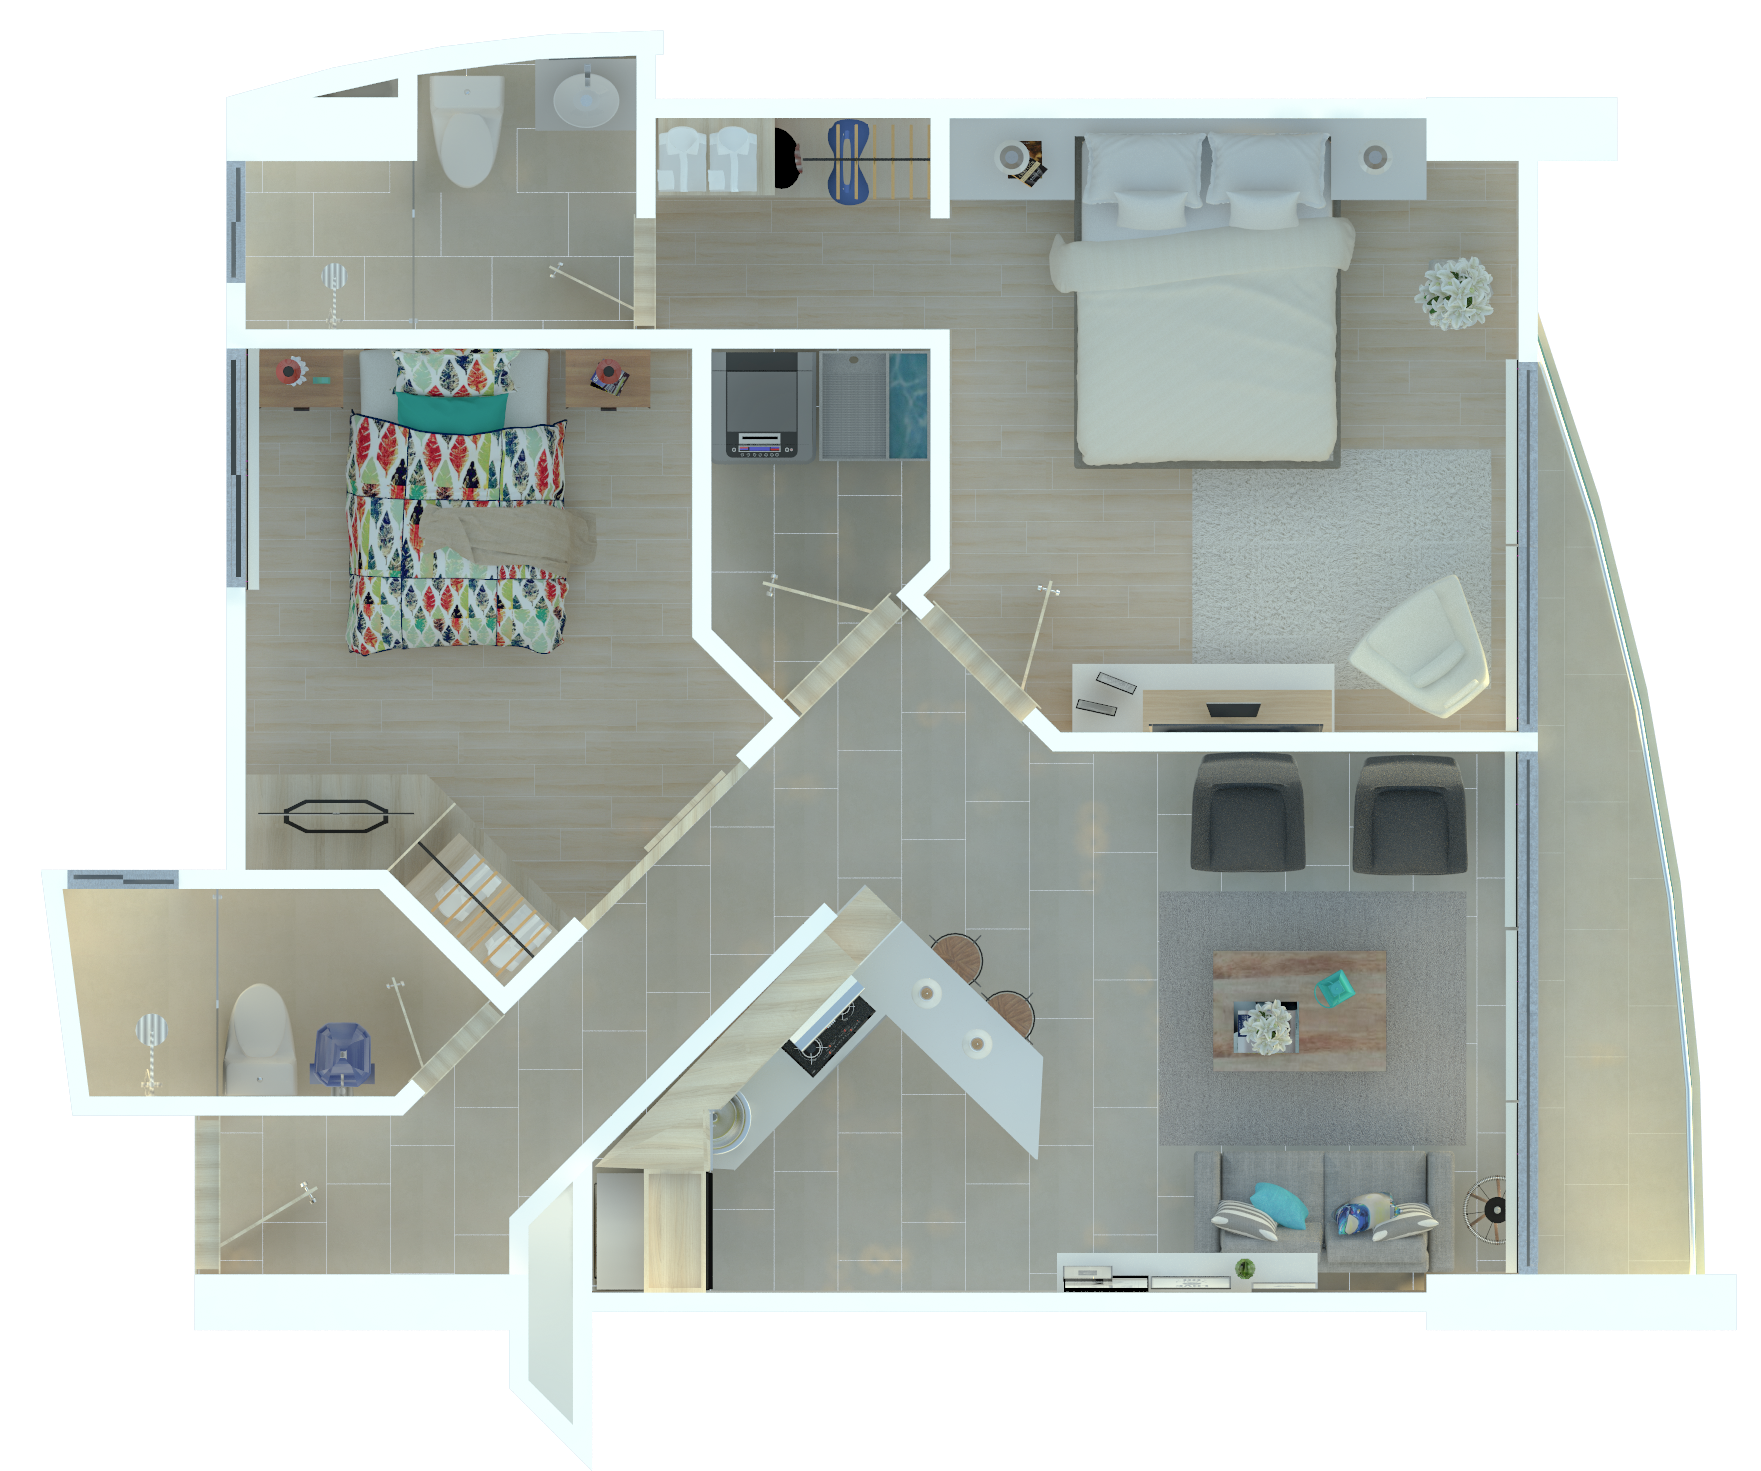
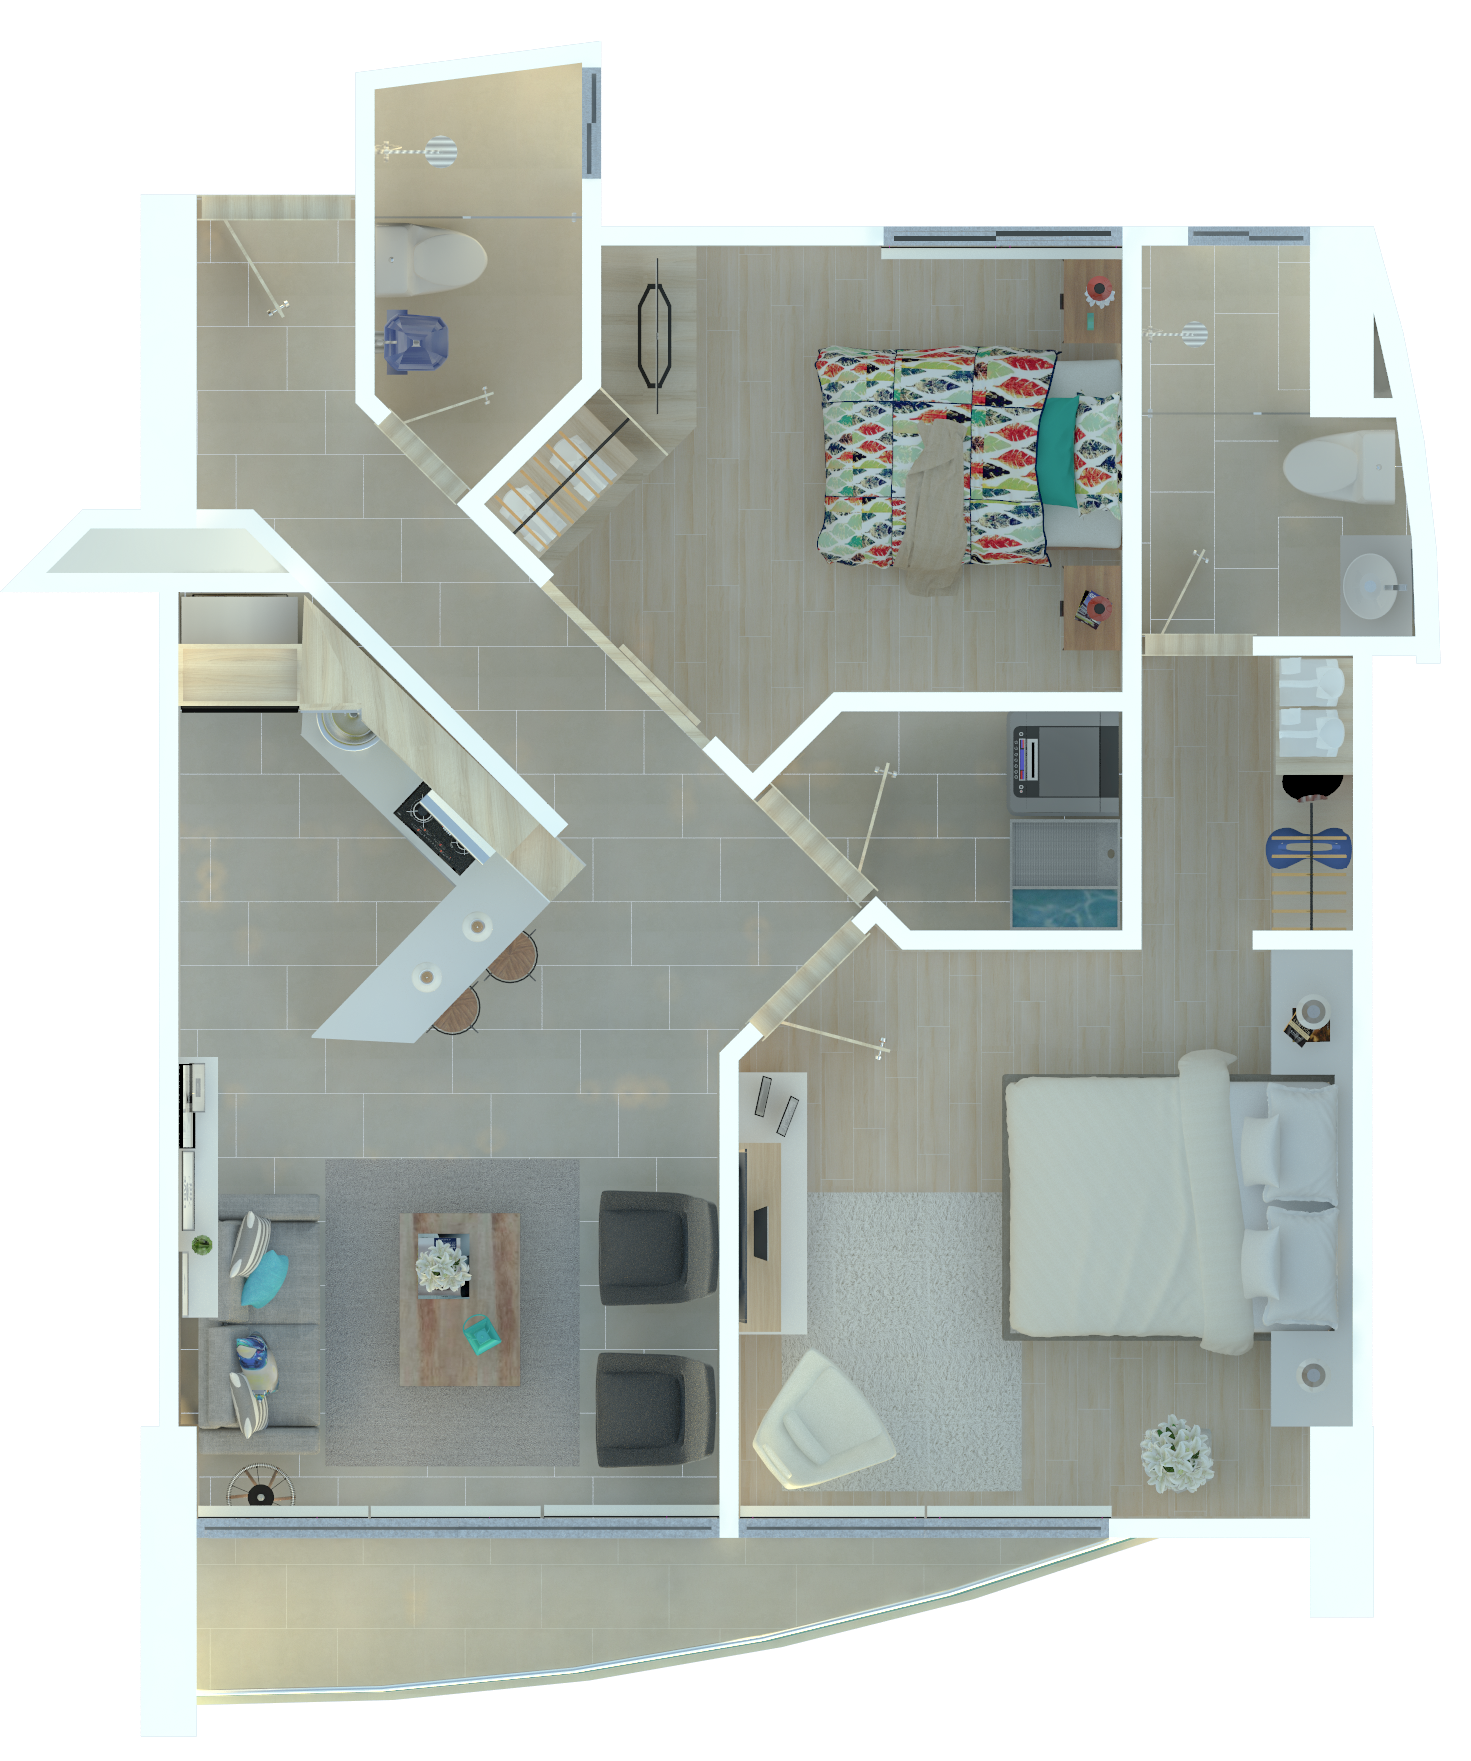
Blog home full of posts

diff --git a/belmonte.html b/belmonte.html
@@ -225,7 +225,9 @@
                                             <div class="col-md-6">
                                                 <img src="images/Belmonte/render-2alcobas-a.png" alt="" class="img-responsive">
                                             </div>
-                                            <div class="col-md-6"></div>
+                                            <div class="col-md-6">
+                                                <img src="images/Belmonte/plano-2alcobas-a.jpg" alt="" class="img-responsive">
+                                            </div>
                                         </div>
                                     </div>
                                     <div id="sub2" class="tab-pane fade">
@@ -233,7 +235,9 @@
                                             <div class="col-md-6">
                                                 <img src="images/Belmonte/render-2alcobas-b.png" alt="" class="img-responsive">
                                             </div>
-                                            <div class="col-md-6"></div>
+                                            <div class="col-md-6">
+                                                <img src="images/Belmonte/plano-2alcobas-b.jpg" alt="" class="img-responsive">
+                                            </div>
                                         </div>
                                     </div>
                                 </div>
@@ -242,20 +246,28 @@
                       </div>
 
                       <div id="tab3" class="tab-pane fade">
-                        <div class="row col-md-6">
-                            <img src="images/Belmonte/render-3alcobas.png" alt="" class="img-responsive">
+                        <div class="row">
+                            <div class="col-md-6">
+                                <img src="images/Belmonte/render-3alcobas.png" alt="" class="img-responsive">
+                            </div>
                         </div>
-                        <div class="row col-md-6">
-                            
+                        <div class="row">
+                            <div class="col-md-6">
+                                
+                            </div>
                         </div>
                       </div>
 
                       <div id="tab4" class="tab-pane fade">
-                        <div class="row col-md-6">
-                            <img src="images/Belmonte/render-penthouse.png" alt="" class="img-responsive">
+                        <div class="row">
+                            <div class="col-md-6">
+                                <img src="images/Belmonte/render-penthouse.png" alt="" class="img-responsive">
+                            </div>
                         </div>
-                        <div class="row col-md-6">
-                            
+                        <div class="row">
+                            <div class="col-md-6">
+                                <img src="images/Belmonte/plano-penthouse-1.jpg" alt="" class="img-responsive">
+                            </div>
                         </div>
                       </div>
 

diff --git a/blog.html b/blog.html
@@ -125,7 +125,7 @@
               {% for post in site.posts offset:2 limit:3 %}
                 <div class="col-md-4">
                   <img src="{{post.image_url}}" alt="" class="img-responsive">
-                  <h1>{{ post.title | strip_html | truncatewords:2}}</h1>
+                  <h2>{{ post.title | strip_html | truncatewords:2}}</h2>
                   <p>
                     {{ post.content | strip_html | truncatewords:15}}
                   </p>
@@ -145,7 +145,7 @@
             <div class="row blog-row">
               {% for post in site.posts offset:5 limit:4 %}
                 <div class="col-md-3"><img src="{{post.image_url}}" alt="" class="img-responsive">
-                  <h1>{{ post.title | strip_html | truncatewords:2}}</h1>
+                  <h3>{{ post.title | strip_html | truncatewords:2}}</h3>
                   <p>
                     {{ post.content | strip_html | truncatewords:10}}
                   </p>

diff --git a/index.html b/index.html
@@ -240,7 +240,7 @@
 			</div>
 		</section>
 
-		<section id="section4" style="background-image: url(images/landing/fondo-noticias.png) no-repeat;">
+		<section id="section4" style="background-color: #494949; ">
 			{% include last_posts.html %}
 		</section>
 

diff --git a/_posts/2016-05-01-avances-de-obra-belmonte-4-mayo.md b/_posts/2016-05-01-avances-de-obra-belmonte-4-mayo.md
@@ -1,0 +1,44 @@
+---
+layout: post_view
+title: Avances de Obra Belmonte - Torre 4
+category: Avances de obra
+image_url: post_images/Avances_de_Obra_Belmonte_ mayo_2016_1.jpg
+by:
+---
+
+Estas son imágenes del avance de obra Torre 4 en Mayo de nuestro proyecto de construcción de apartamentos Belmonte en Armenia, Quindio, Colombia
+
+
+!["imagen1"]({{site.baseurl}}/post_images/Avances_de_Obra_Belmonte_ mayo_2016_1.jpg){: .img-responsive}
+
+!["imagen2"]({{site.baseurl}}/post_images/Avances_de_Obra_Belmonte_ mayo_2016_2.jpg){: .img-responsive}
+
+!["imagen3"]({{site.baseurl}}/post_images/Avances_de_Obra_Belmonte_ mayo_2016_4.jpg){: .img-responsive}
+
+!["imagen4"]({{site.baseurl}}/post_images/Avances_de_Obra_Belmonte_ mayo_2016_5.jpg){: .img-responsive}
+
+!["imagen5"]({{site.baseurl}}/post_images/Avances_de_Obra_Belmonte_ mayo_2016_6.jpg){: .img-responsive}
+
+!["imagen6"]({{site.baseurl}}/post_images/Avances_de_Obra_Belmonte_ mayo_2016_7.jpg){: .img-responsive}
+
+!["imagen7"]({{site.baseurl}}/post_images/Avances_de_Obra_Belmonte_ mayo_2016_10.jpg){: .img-responsive}
+
+!["imagen8"]({{site.baseurl}}/post_images/Avances_de_Obra_Belmonte_ mayo_2016_11.jpg){: .img-responsive}
+
+!["imagen9"]({{site.baseurl}}/post_images/Avances_de_Obra_Belmonte_ mayo_2016_12.jpg){: .img-responsive}
+
+!["imagen10"]({{site.baseurl}}/post_images/Avances_de_Obra_Belmonte_ mayo_2016_13.jpg){: .img-responsive}
+
+!["imagen11"]({{site.baseurl}}/post_images/Avances_de_Obra_Belmonte_ mayo_2016_15.jpg){: .img-responsive}
+
+!["imagen12"]({{site.baseurl}}/post_images/Avances_de_Obra_Belmonte_ mayo_2016_16.jpg){: .img-responsive}
+
+!["imagen13"]({{site.baseurl}}/post_images/Avances_de_Obra_Belmonte_ mayo_2016_19.jpg){: .img-responsive}
+
+!["imagen14"]({{site.baseurl}}/post_images/Avances_de_Obra_Belmonte_ mayo_2016_20.jpg){: .img-responsive}
+
+!["imagen15"]({{site.baseurl}}/post_images/Avances_de_Obra_Belmonte_ mayo_2016_21.jpg){: .img-responsive}
+
+!["imagen16"]({{site.baseurl}}/post_images/Avances_de_Obra_Belmonte_ mayo_2016_22.jpg){: .img-responsive}
+
+!["imagen17"]({{site.baseurl}}/post_images/Avances_de_Obra_Belmonte_ mayo_2016_23.jpg){: .img-responsive}

diff --git a/_posts/2016-01-01-avances-de-obra-belmonte-enero.md b/_posts/2016-01-01-avances-de-obra-belmonte-enero.md
@@ -1,0 +1,33 @@
+---
+layout: post_view
+title: Avances de Obra Belmonte
+category: Avances de obra
+image_url: post_images/avances_de_obra_belmonte_enero_2016_1.jpg
+by:
+---
+
+Estas son imágenes del avance de obra en enero de nuestro proyecto de construcción de apartamentos Belmonte en Armenia, Quindio, Colombia
+
+!["imagen1"]({{site.baseurl}}/post_images/avances_de_obra_belmonte_enero_2016_3.jpg){: .img-responsive}
+
+!["imagen2"]({{site.baseurl}}/post_images/avances_de_obra_belmonte_enero_2016_4.jpg){: .img-responsive}
+
+!["imagen3"]({{site.baseurl}}/post_images/avances_de_obra_belmonte_enero_2016_5.jpg){: .img-responsive}
+
+!["imagen4"]({{site.baseurl}}/post_images/avances_de_obra_belmonte_enero_2016_31.jpg){: .img-responsive}
+
+!["imagen5"]({{site.baseurl}}/post_images/avances_de_obra_belmonte_enero_2016_32.jpg){: .img-responsive}
+
+!["imagen6"]({{site.baseurl}}/post_images/avances_de_obra_belmonte_enero_2016_33.jpg){: .img-responsive}
+
+!["imagen7"]({{site.baseurl}}/post_images/avances_de_obra_belmonte_enero_2016_34.jpg){: .img-responsive}
+
+!["imagen8"]({{site.baseurl}}/post_images/avances_de_obra_belmonte_enero_2016_35.jpg){: .img-responsive}
+
+!["imagen9"]({{site.baseurl}}/post_images/avances_de_obra_belmonte_enero_2016_36.jpg){: .img-responsive}
+
+!["imagen10"]({{site.baseurl}}/post_images/avances_de_obra_belmonte_enero_2016_37.jpg){: .img-responsive}
+
+!["imagen11"]({{site.baseurl}}/post_images/avances_de_obra_belmonte_enero_2016_38.jpg){: .img-responsive}
+
+!["imagen12"]({{site.baseurl}}/post_images/avances_de_obra_belmonte_enero_2016_39.jpg){: .img-responsive}

diff --git a/_posts/2016-05-01-como-disfrutar-de-la-mejor-vista-en-armenia.md b/_posts/2016-05-01-como-disfrutar-de-la-mejor-vista-en-armenia.md
@@ -1,0 +1,32 @@
+---
+layout: post_view
+title: Cómo disfrutar de la mejor vista en Armenia
+category: Proarquitectura
+image_url: post_images/Como_disfrutar_mejor_vista_Armenia_Quindio_facilmente_01.jpg
+by:
+---
+
+Disfrutar de la mejor vista en Armenia, Quindio, es realmente fácil. Conozca nuestro proyecto Belmonte, y descubra cómo...
+
+
+!["imagen1"]({{site.baseurl}}/post_images/Como_disfrutar_mejor_vista_Armenia_Quindio_facilmente_01.jpg){: .img-responsive}
+
+!["imagen2"]({{site.baseurl}}/post_images/Como_disfrutar_mejor_vista_Armenia_Quindio_facilmente_02.jpg){: .img-responsive}
+
+!["imagen3"]({{site.baseurl}}/post_images/Como_disfrutar_mejor_vista_Armenia_Quindio_facilmente_03.jpg){: .img-responsive}
+
+!["imagen4"]({{site.baseurl}}/post_images/Como_disfrutar_mejor_vista_Armenia_Quindio_facilmente_04.jpg){: .img-responsive}
+
+!["imagen5"]({{site.baseurl}}/post_images/Como_disfrutar_mejor_vista_Armenia_Quindio_facilmente_05.jpg){: .img-responsive}
+
+!["imagen6"]({{site.baseurl}}/post_images/Como_disfrutar_mejor_vista_Armenia_Quindio_facilmente_06.jpg){: .img-responsive}
+
+!["imagen7"]({{site.baseurl}}/post_images/Como_disfrutar_mejor_vista_Armenia_Quindio_facilmente_07.jpg){: .img-responsive}
+
+!["imagen8"]({{site.baseurl}}/post_images/Como_disfrutar_mejor_vista_Armenia_Quindio_facilmente_08.jpg){: .img-responsive}
+
+
+
+
+
+

diff --git a/_posts/2016-03-01-avances-de-obra-belmonte-marzo.md b/_posts/2016-03-01-avances-de-obra-belmonte-marzo.md
@@ -1,0 +1,27 @@
+---
+layout: post_view
+title: Avances de Obra Belmonte
+category: Avances de obra
+image_url: post_images/avances_de_obra_belmonte_marzo_2016_10.jpg
+by:
+---
+
+Estas son imágenes del avance de obra en marzo de nuestro proyecto de construcción de apartamentos Belmonte en Armenia, Quindio, Colombia
+
+!["imagen1"]({{site.baseurl}}/post_images/avances_de_obra_belmonte_marzo_2016_1.jpg){: .img-responsive}
+
+!["imagen2"]({{site.baseurl}}/post_images/avances_de_obra_belmonte_marzo_2016_2.jpg){: .img-responsive}
+
+!["imagen3"]({{site.baseurl}}/post_images/avances_de_obra_belmonte_marzo_2016_3.jpg){: .img-responsive}
+
+!["imagen4"]({{site.baseurl}}/post_images/avances_de_obra_belmonte_marzo_2016_4.jpg){: .img-responsive}
+
+!["imagen5"]({{site.baseurl}}/post_images/avances_de_obra_belmonte_marzo_2016_5.jpg){: .img-responsive}
+
+!["imagen6"]({{site.baseurl}}/post_images/avances_de_obra_belmonte_marzo_2016_6.jpg){: .img-responsive}
+
+!["imagen7"]({{site.baseurl}}/post_images/avances_de_obra_belmonte_marzo_2016_7.jpg){: .img-responsive}
+
+!["imagen8"]({{site.baseurl}}/post_images/avances_de_obra_belmonte_marzo_2016_8.jpg){: .img-responsive}
+
+!["imagen9"]({{site.baseurl}}/post_images/avances_de_obra_belmonte_marzo_2016_9.jpg){: .img-responsive}

diff --git a/_posts/2016-05-01-avances-de-obra-belmonte-1-mayo.md b/_posts/2016-05-01-avances-de-obra-belmonte-1-mayo.md
@@ -1,0 +1,24 @@
+---
+layout: post_view
+title: Avances de Obra Belmonte - Torre 1
+category: Avances de obra
+image_url: post_images/Avances_de_Obra_Belmonte_ mayo_2016_24.jpg
+by:
+---
+
+Estas son imágenes del avance de obra en Mayo de nuestro proyecto de construcción de apartamentos Belmonte en Armenia, Quindio, Colombia
+
+
+!["imagen1"]({{site.baseurl}}/post_images/Avances_de_Obra_Belmonte_ mayo_2016_24.jpg){: .img-responsive}
+
+!["imagen2"]({{site.baseurl}}/post_images/Avances_de_Obra_Belmonte_ mayo_2016_26.jpg){: .img-responsive}
+
+!["imagen3"]({{site.baseurl}}/post_images/Avances_de_Obra_Belmonte_ mayo_2016_28.jpg){: .img-responsive}
+
+!["imagen4"]({{site.baseurl}}/post_images/Avances_de_Obra_Belmonte_ mayo_2016_30.jpg){: .img-responsive}
+
+!["imagen5"]({{site.baseurl}}/post_images/Avances_de_Obra_Belmonte_ mayo_2016_31.jpg){: .img-responsive}
+
+!["imagen6"]({{site.baseurl}}/post_images/Avances_de_Obra_Belmonte_ mayo_2016_32.jpg){: .img-responsive}
+
+!["imagen7"]({{site.baseurl}}/post_images/Avances_de_Obra_Belmonte_ mayo_2016_34.jpg){: .img-responsive}

diff --git a/_posts/2016-02-01-avances-de-obra-belmonte-febrero.md b/_posts/2016-02-01-avances-de-obra-belmonte-febrero.md
@@ -1,0 +1,21 @@
+---
+layout: post_view
+title: Avances de Obra Belmonte
+category: Avances de obra
+image_url: post_images/avances_de_obra_belmonte_febrero_2016_1.jpg
+by:
+---
+
+Estas son imágenes del avance de obra en febrero de nuestro proyecto de construcción de apartamentos Belmonte en Armenia, Quindio, Colombia
+
+!["imagen1"]({{site.baseurl}}/post_images/avances_de_obra_belmonte_febrero_2016_2.jpg){: .img-responsive}
+
+!["imagen2"]({{site.baseurl}}/post_images/avances_de_obra_belmonte_febrero_2016_3.jpg){: .img-responsive}
+
+!["imagen3"]({{site.baseurl}}/post_images/avances_de_obra_belmonte_febrero_2016_4.jpg){: .img-responsive}
+
+!["imagen4"]({{site.baseurl}}/post_images/avances_de_obra_belmonte_febrero_2016_5.jpg){: .img-responsive}
+
+!["imagen5"]({{site.baseurl}}/post_images/avances_de_obra_belmonte_febrero_2016_7.jpg){: .img-responsive}
+
+!["imagen6"]({{site.baseurl}}/post_images/avances_de_obra_belmonte_febrero_2016_8.jpg){: .img-responsive}

diff --git a/_posts/2016-04-01-avances-de-obra-belmonte-abril.md b/_posts/2016-04-01-avances-de-obra-belmonte-abril.md
@@ -1,0 +1,20 @@
+---
+layout: post_view
+title: Avances de Obra Belmonte
+category: Avances de obra
+image_url: post_images/Avances_de_Obra_Belmonte_ Abril_2016_01.jpg
+by:
+---
+
+Estas son imágenes del avance de obra en Abril de nuestro proyecto de construcción de apartamentos Belmonte en Armenia, Quindio, Colombia
+
+
+!["imagen1"]({{site.baseurl}}/post_images/Avances_de_Obra_Belmonte_ Abril_2016_01.jpg){: .img-responsive}
+
+!["imagen2"]({{site.baseurl}}/post_images/Avances_de_Obra_Belmonte_ Abril_2016_02.jpg){: .img-responsive}
+
+!["imagen3"]({{site.baseurl}}/post_images/Avances_de_Obra_Belmonte_ Abril_2016_03.jpg){: .img-responsive}
+
+!["imagen4"]({{site.baseurl}}/post_images/Avances_de_Obra_Belmonte_ Abril_2016_04.jpg){: .img-responsive}
+
+!["imagen5"]({{site.baseurl}}/post_images/Avances_de_Obra_Belmonte_ Abril_2016_05.jpg){: .img-responsive}

diff --git a/_posts/2016-06-01-avances-de-obra-belmonte-1-junio.md b/_posts/2016-06-01-avances-de-obra-belmonte-1-junio.md
@@ -6,7 +6,7 @@ image_url: post_images/Avances_de_Obra_Belmonte_ junio_2016_01.jpg
 by:
 ---
 
-Estas son imágenes del avance de obra orre 1 en junio de nuestro proyecto de construcción de apartamentos Belmonte en Armenia, Quindio, Colombia
+Estas son imágenes del avance de obra Torre 1 en junio de nuestro proyecto de construcción de apartamentos Belmonte en Armenia, Quindio, Colombia
 
 
 !["imagen1"]({{site.baseurl}}/post_images/Avances_de_Obra_Belmonte_ junio_2016_01.jpg){: .img-responsive}
